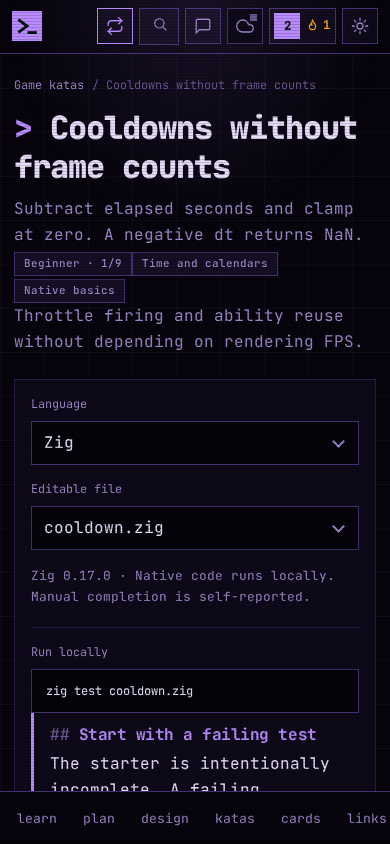
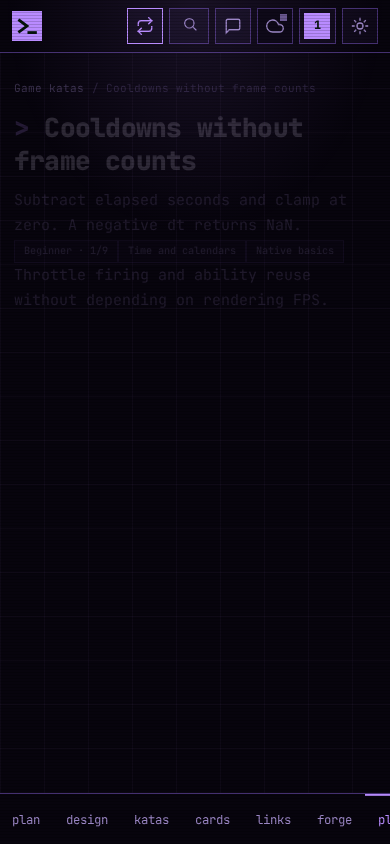
Reduce typography scale on phones

diff --git a/assets/style.css b/assets/style.css
@@ -920,3 +920,11 @@ pre[data-native-code] .token.macro,pre[data-native-code] .token.directive,.nativ
 .dr-draft{padding:16px 20px;border-top:1px solid var(--line)}
 .dr-draft .lbl{margin:0}
 .dr-draft .native-editor{margin-top:10px}
+/* A tighter reading scale for phones; form controls retain their touch sizing. */
+@media(max-width:520px){
+  html{font-size:15px}
+  body{font-size:15px}
+  h1,.lhead h1,.hero h1{font-size:1.75rem;line-height:1.25}
+  h2{font-size:1.12rem}
+  .lhead .sum,.hero .lead{font-size:1rem}
+}
